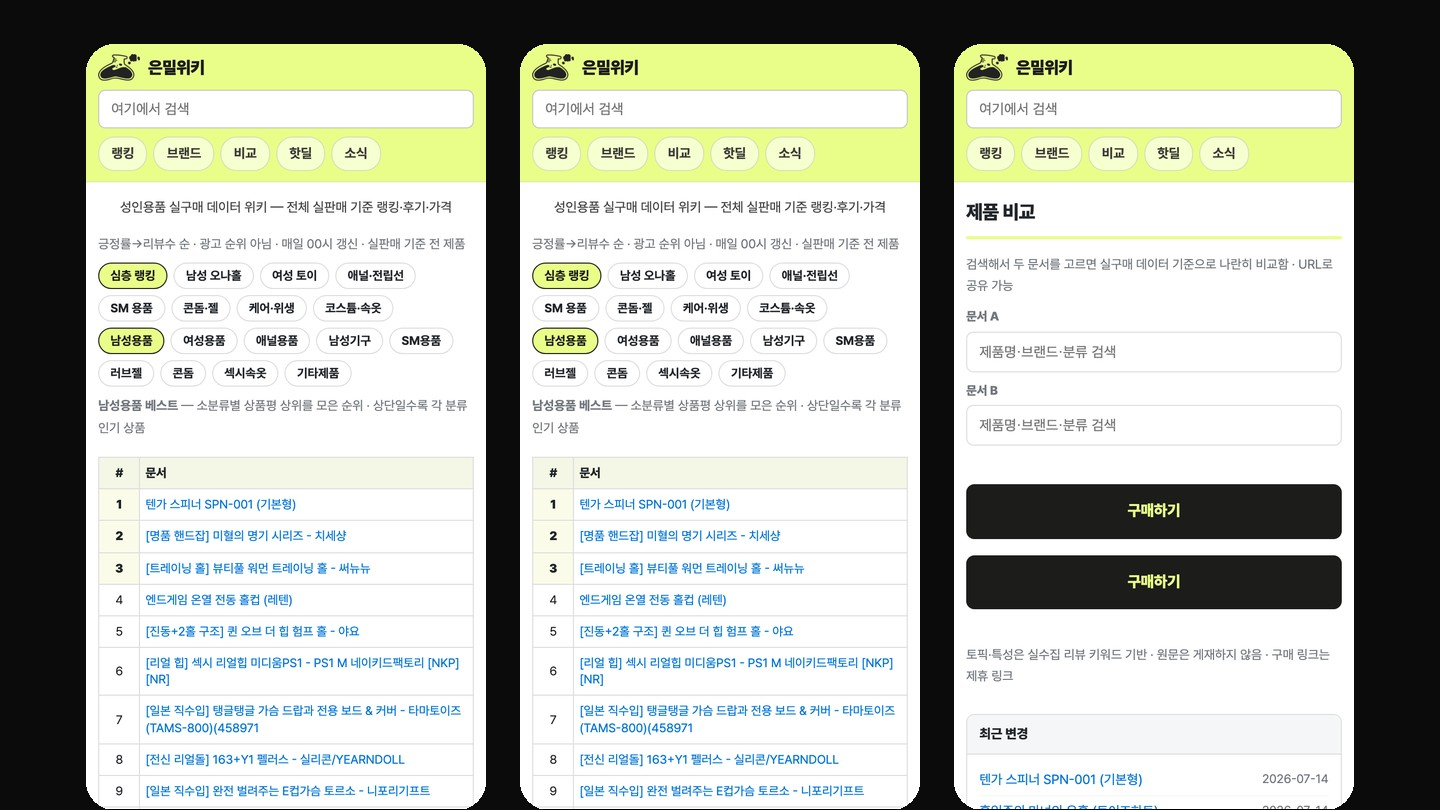
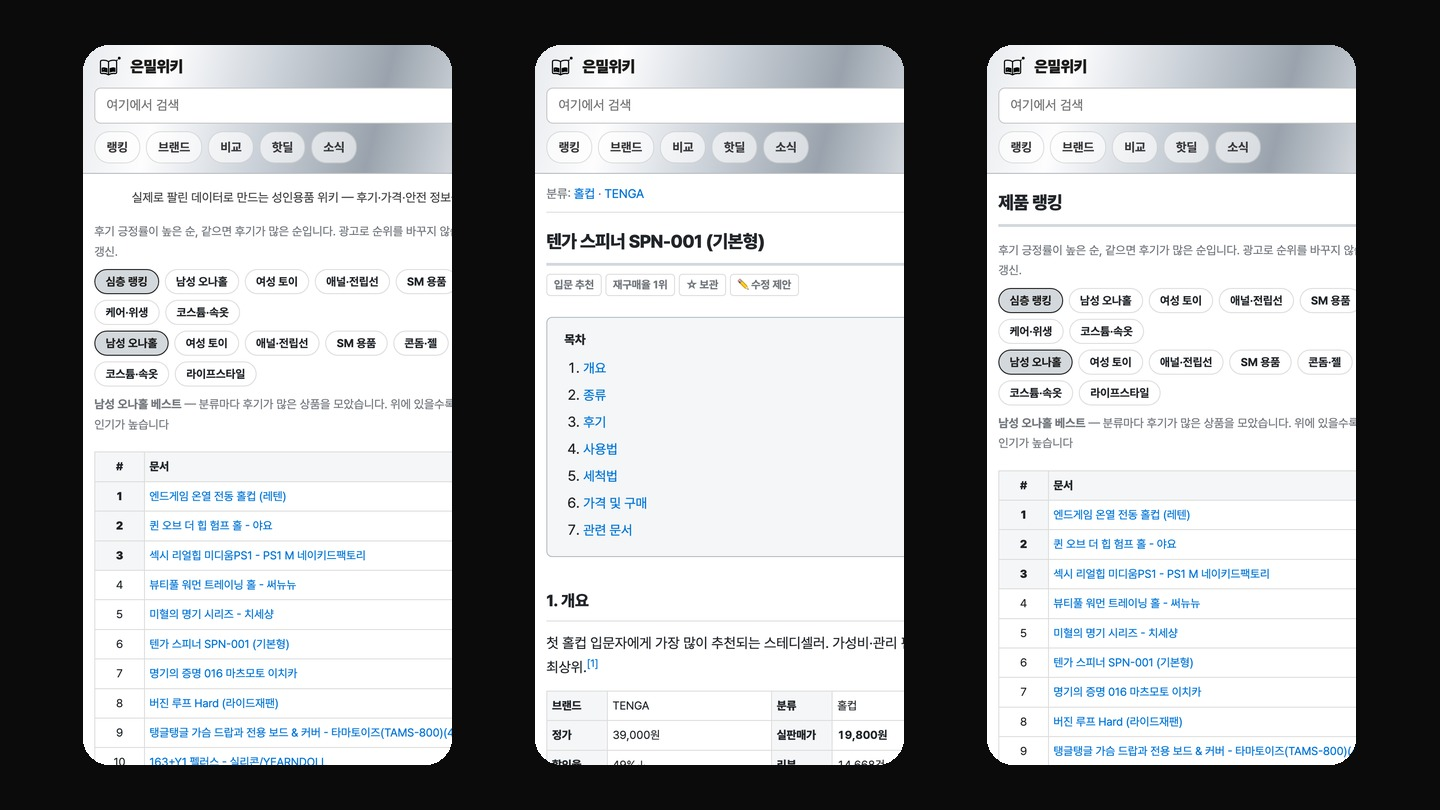
은밀위키 캡처를 2026-10-15 라이브(크롬)로 교체 · 문서 9,790쪽 · 큰 분류 7개로 숫자 맞춤

diff --git a/index.html b/index.html
@@ -150,14 +150,14 @@
           </div>
         </article>
         <article class="svc-row">
-          <figure class="sr-vis"><img src="wiki-card.jpg" alt="은밀위키: 랭킹, 문서 상세, 브랜드 인덱스 화면" loading="lazy" width="1440" height="810">
+          <figure class="sr-vis"><img src="wiki-card.jpg" alt="은밀위키: 홈 랭킹, 텐가 스피너 문서, 제품 랭킹 화면 (2026-10-15)" loading="lazy" width="1440" height="810">
             <figcaption>은밀위키 · 실제 서비스 화면</figcaption></figure>
           <div class="sr-body">
             <p class="sr-meta"><span>04 / 데이터 위키</span><span class="state">운영 중</span></p>
             <h3>은밀위키</h3>
             <p class="sr-line">광고 순위 말고, 실구매 순위를 봐요.</p>
             <p class="sr-desc">실판매 데이터로 긍정률과 리뷰 수를 매겨 순위를 냅니다. 문서마다 정가·실판매가·할인율을 붙이고 매일 0시에 갱신해요.</p>
-            <div class="sr-nums"><div><b>약 6,000</b><i>건</i><span>운영 중인 문서</span></div><div><b>8</b><i>개</i><span>제품 카테고리</span></div></div>
+            <div class="sr-nums"><div><b>9,790</b><i>쪽</i><span>운영 중인 문서</span></div><div><b>7</b><i>개</i><span>큰 카테고리 · 아래 63개</span></div></div>
             <p class="sr-go"><a class="linkout" href="lab.html">자세히 보기</a>
               <a class="linkout ext" href="https://www.eunmilwiki.com/" target="_blank" rel="noopener">은밀위키 방문하기 ↗</a></p>
           </div>

diff --git a/lab.html b/lab.html
@@ -50,7 +50,7 @@
       <div class="kpi">
         <div><b>5개</b><span>운영 사업라인</span></div>
         <div><b>수천 건</b><span>은밀위키 문서</span></div>
-        <div><b>8개</b><span>제품 카테고리</span></div>
+        <div><b>7개</b><span>큰 카테고리 · 아래 63개</span></div>
         <div><b>3채널</b><span>자사몰 · 스토어 · 위키</span></div>
       </div>
       <figure class="shotfig"><img src="lab-card.jpg" alt="은밀한연구소 자사몰: 홈, 카테고리, 상품 상세 화면" loading="lazy" width="1440" height="810"><figcaption>은밀한연구소 · 실제 서비스 화면</figcaption></figure>
